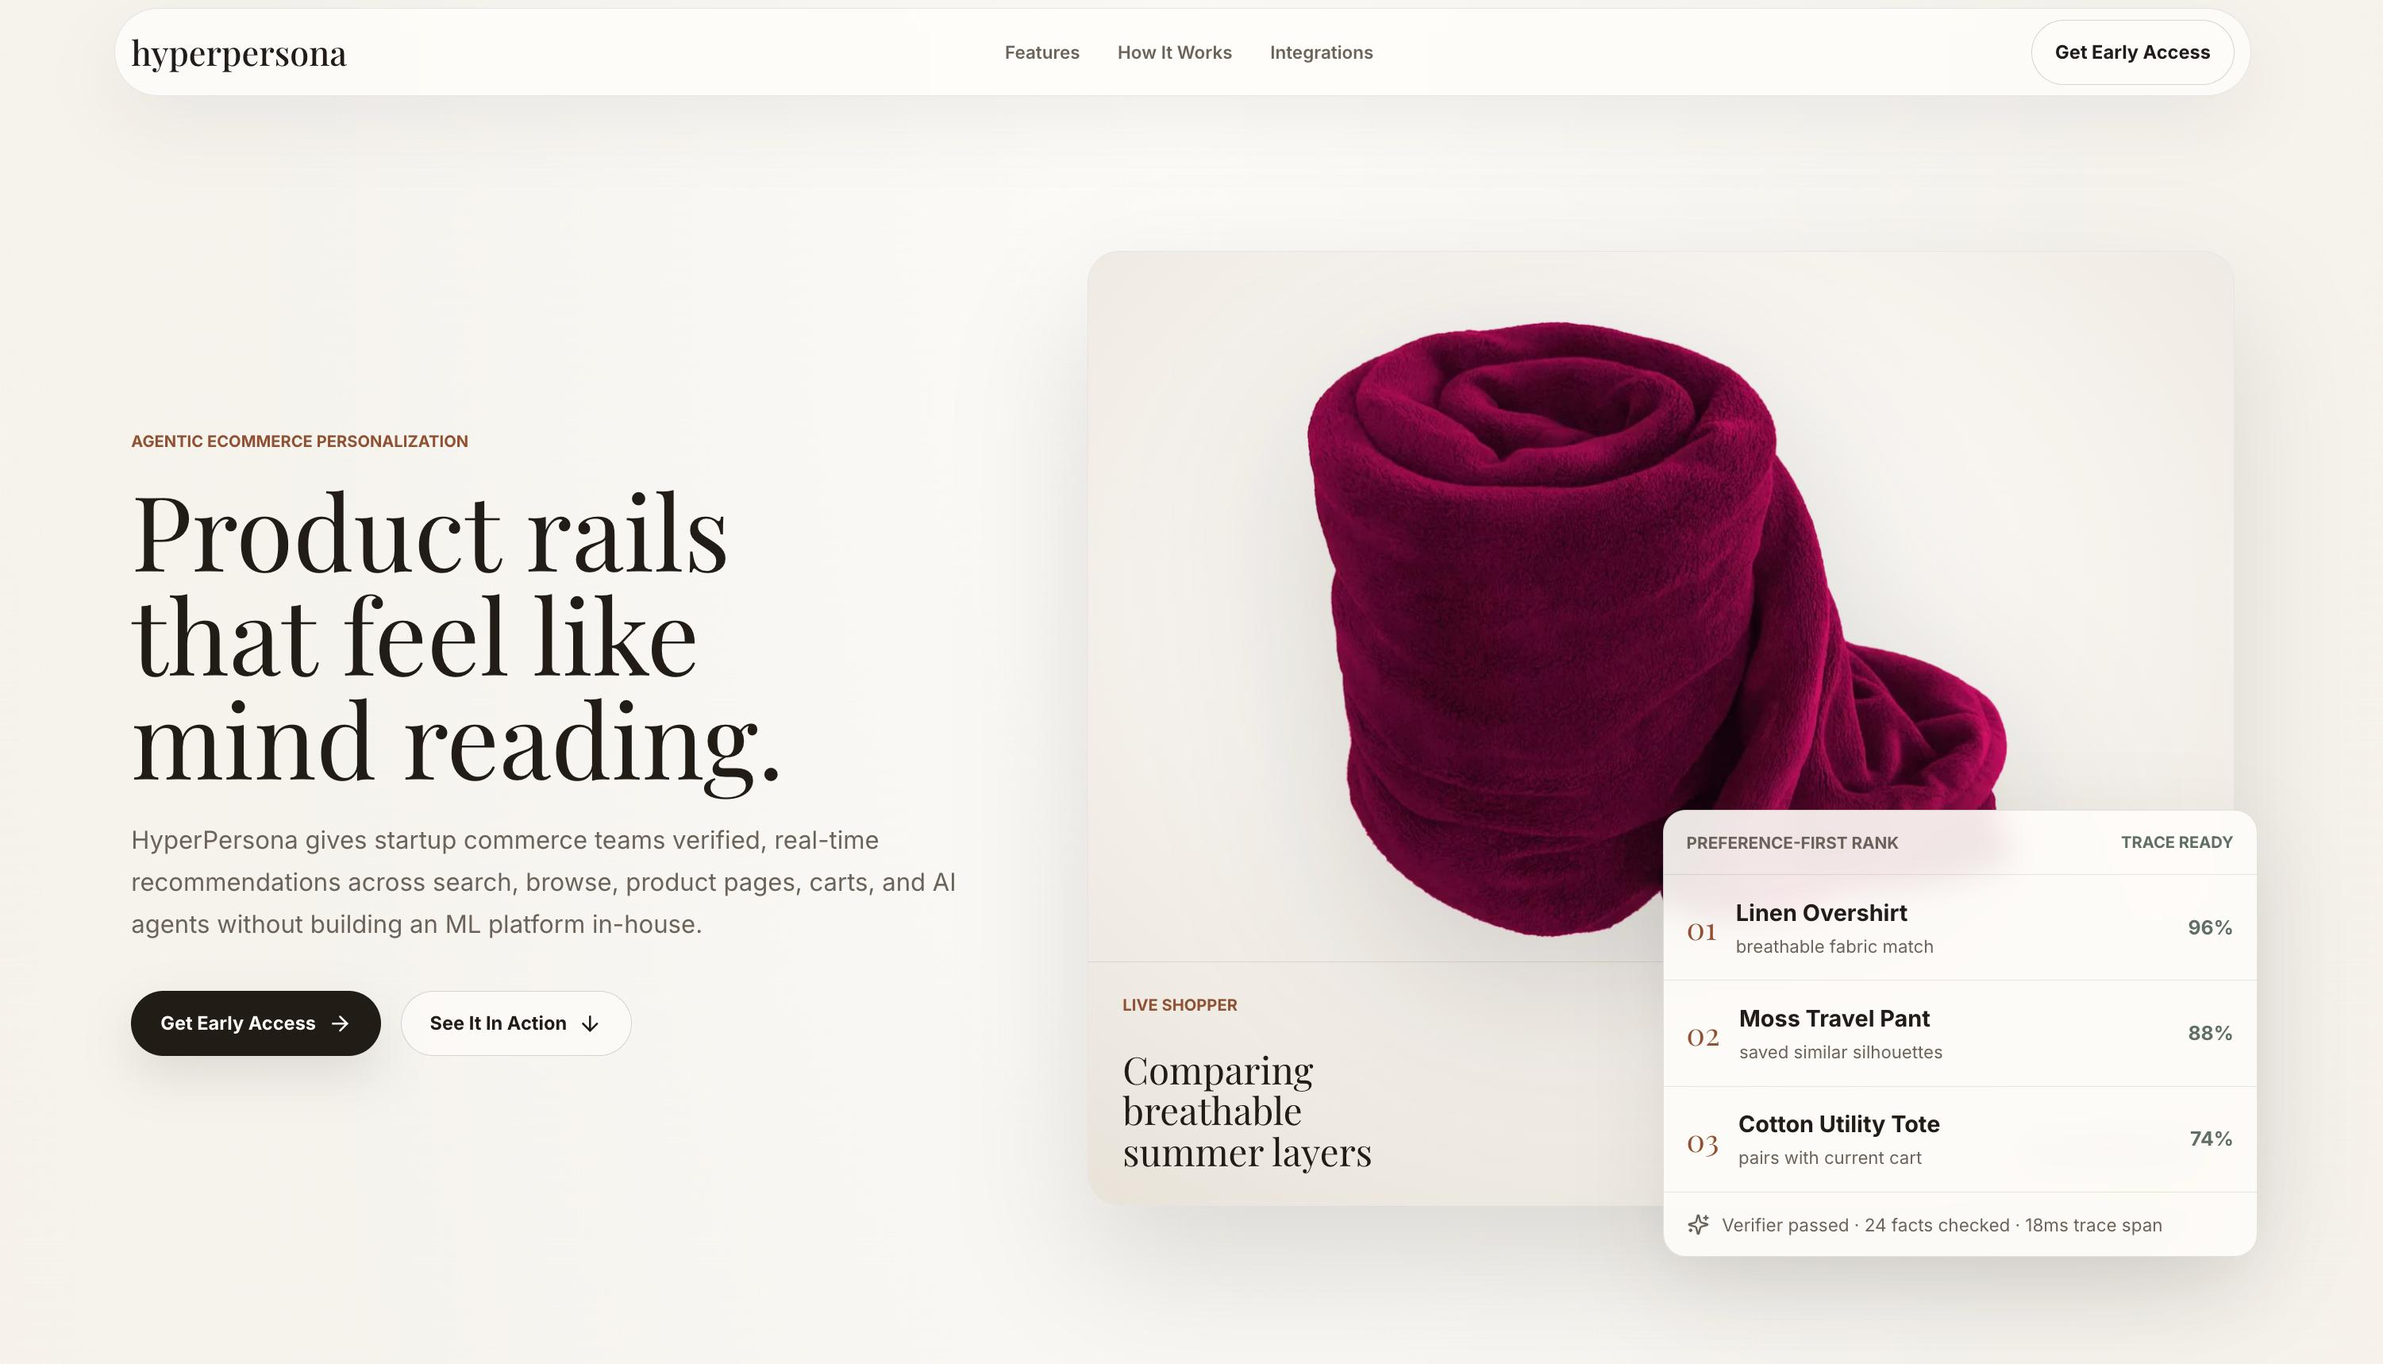
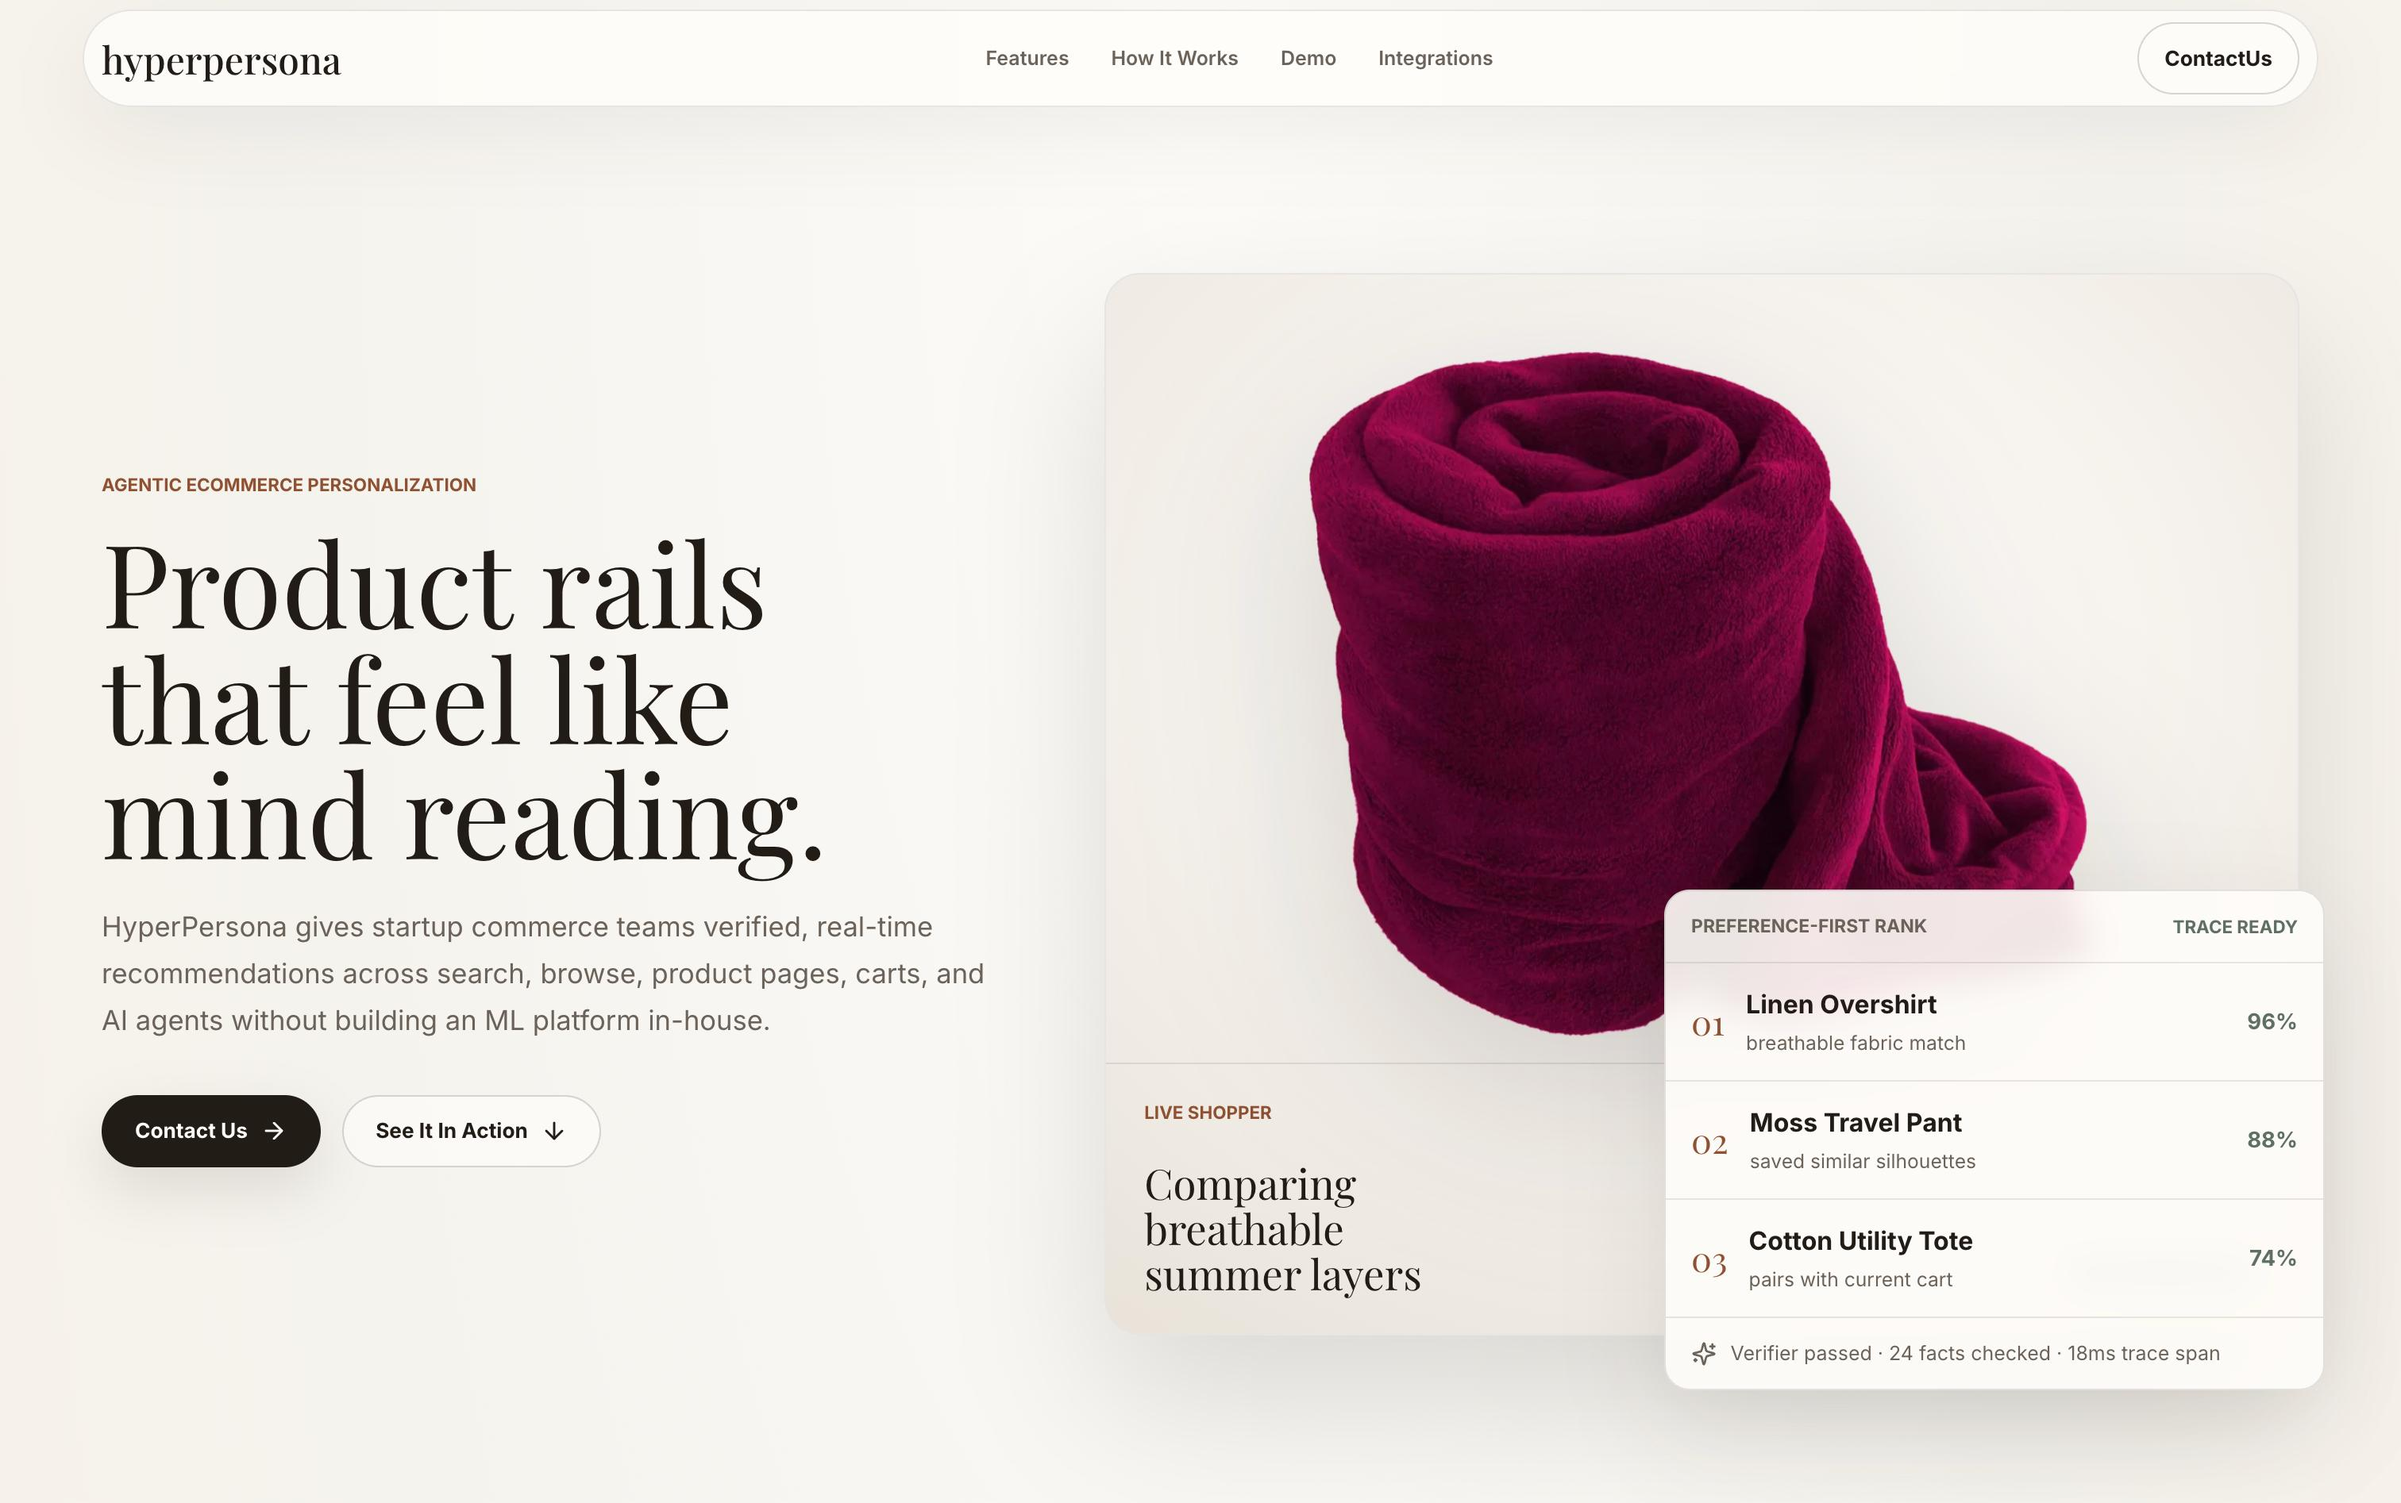
Refine project card typography

diff --git a/src/components/FeaturedProjects/ProjectCard.tsx b/src/components/FeaturedProjects/ProjectCard.tsx
@@ -55,11 +55,11 @@ export const ProjectCard = ({
 
       {/* Content section */}
       <div className="p-4 flex flex-col flex-grow bg-[#F9FAFB]">
-        <h3 className="text-lg font-semibold text-gray-900 mb-2 font-jakarta tracking-tight">
+        <h3 className="font-crimson text-xl font-medium leading-tight text-gray-900 mb-2">
           {title}
         </h3>
 
-        <p className="text-sm text-gray-600 mb-4 flex-grow">{description}</p>
+        <p className="font-ibm-plex text-sm text-gray-600 mb-4 flex-grow">{description}</p>
 
         {/* Links */}
         <div className="flex gap-3 mt-auto">
@@ -67,7 +67,7 @@ export const ProjectCard = ({
             <Link
               href={liveUrl}
               target="_blank"
-              className="flex items-center gap-1 border border-gray-200 text-gray-800 px-3 py-1.5 rounded-full text-sm font-medium bg-white transition"
+              className="flex items-center gap-1 border border-gray-200 text-gray-800 px-3 py-1.5 rounded-full font-ibm-plex text-sm font-medium bg-white transition"
             >
               <FiExternalLink className="text-sm" />
               <span>Live</span>
@@ -77,7 +77,7 @@ export const ProjectCard = ({
             <Link
               href={repoUrl}
               target="_blank"
-              className="flex items-center gap-1  bg-white text-gray-800 border border-gray-200  px-3 py-1.5 rounded-full text-sm font-medium transition"
+              className="flex items-center gap-1  bg-white text-gray-800 border border-gray-200  px-3 py-1.5 rounded-full font-ibm-plex text-sm font-medium transition"
             >
               <FiGithub className="text-sm" />
               <span>Code</span>
